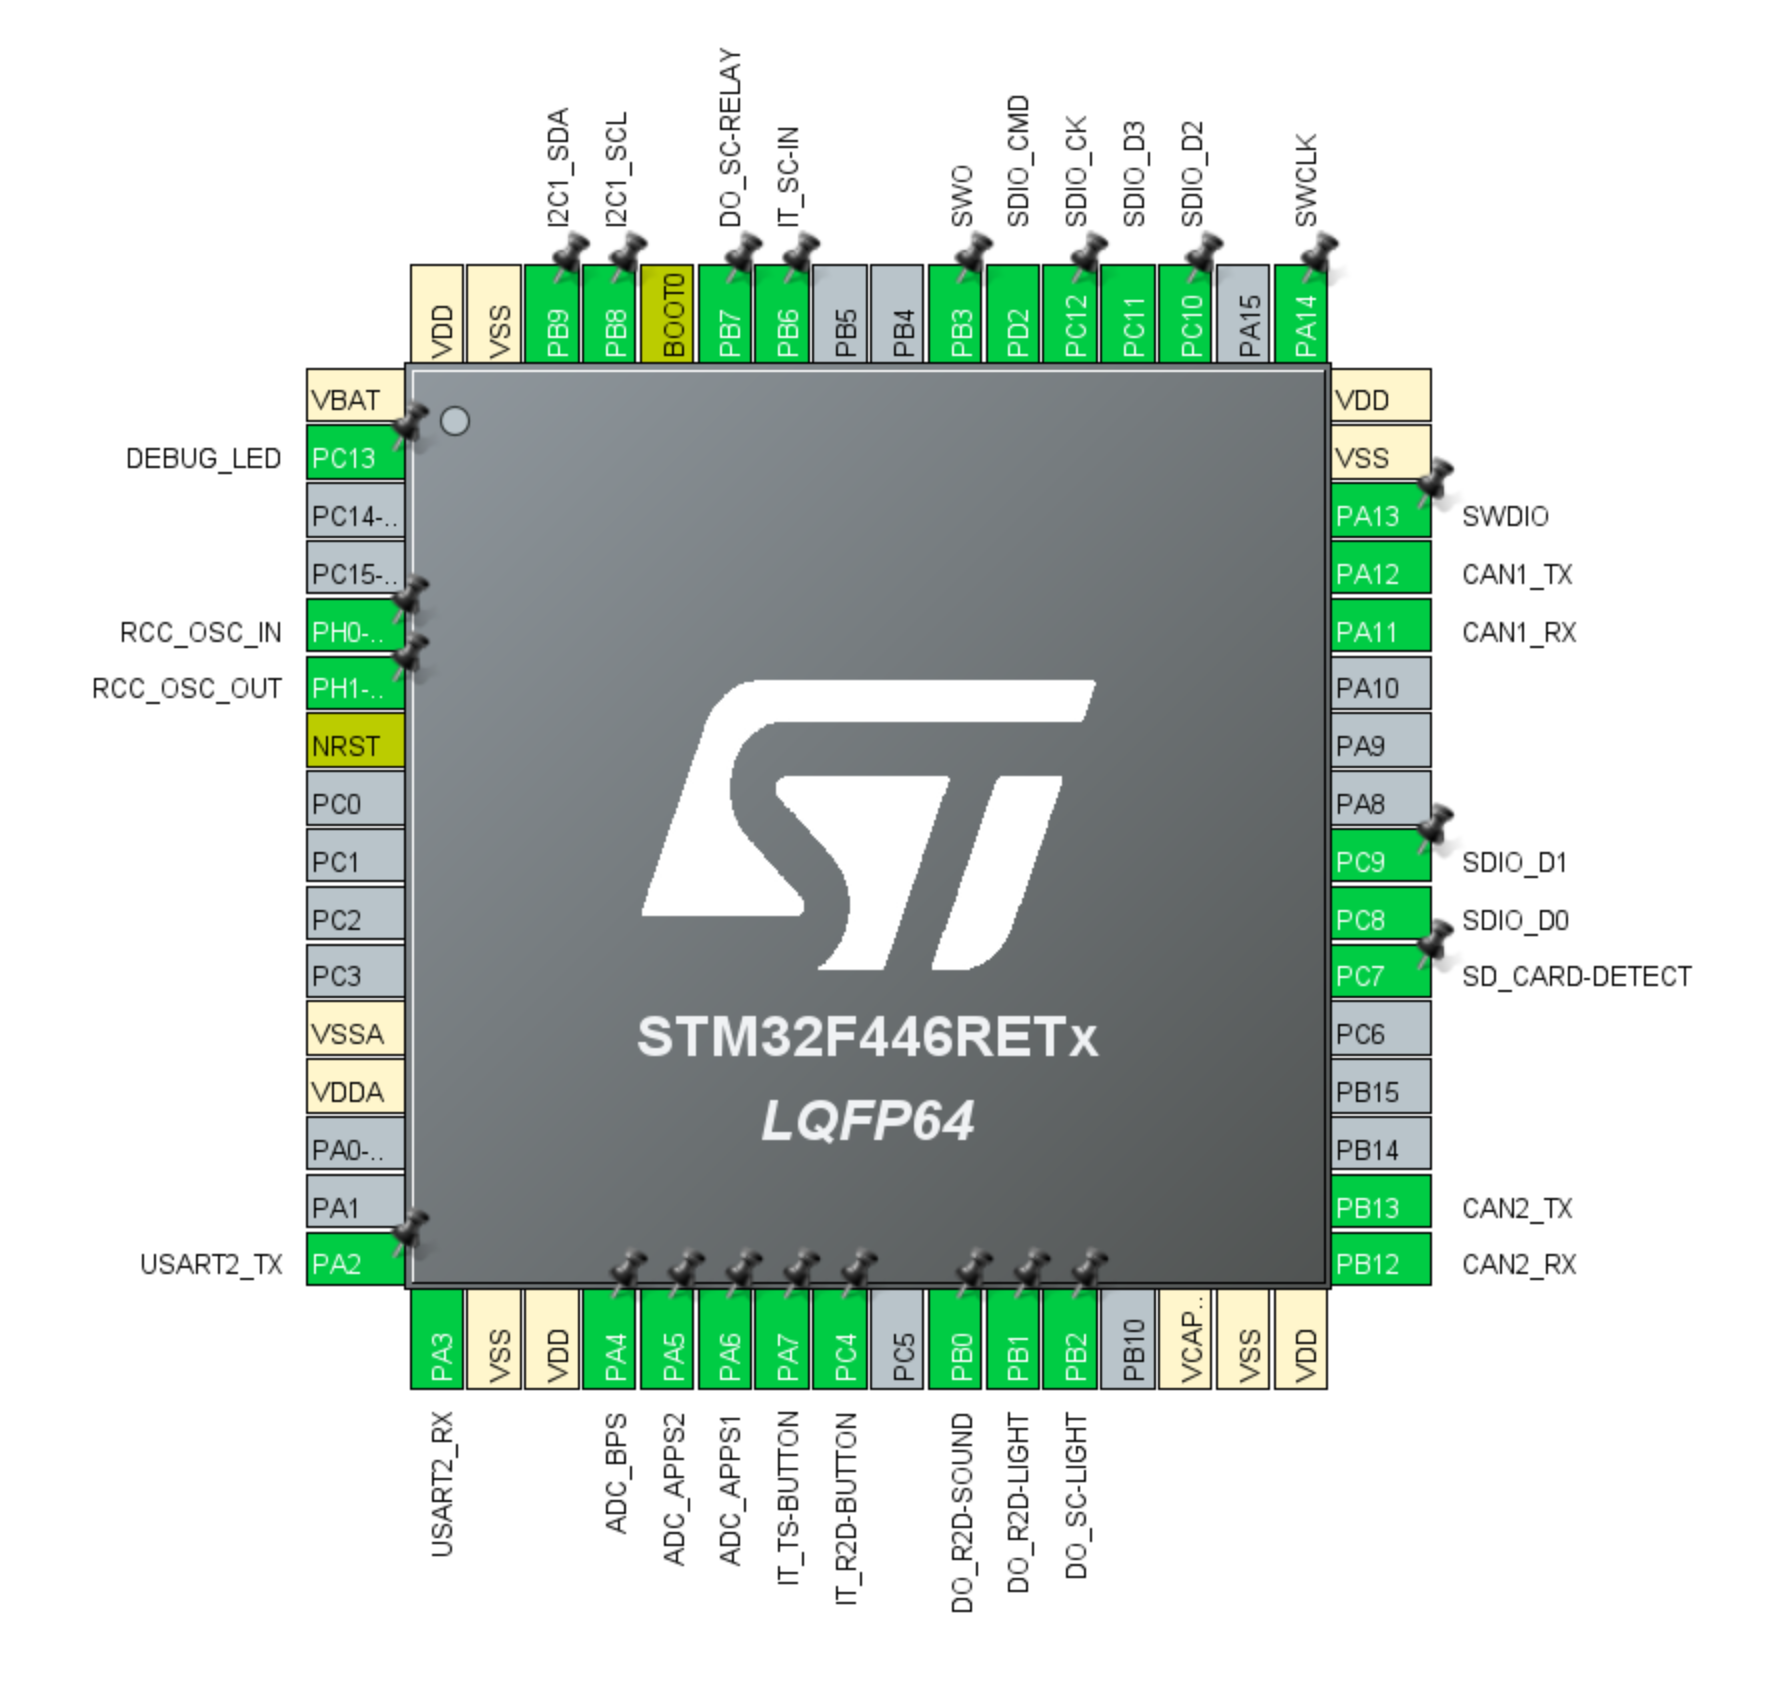
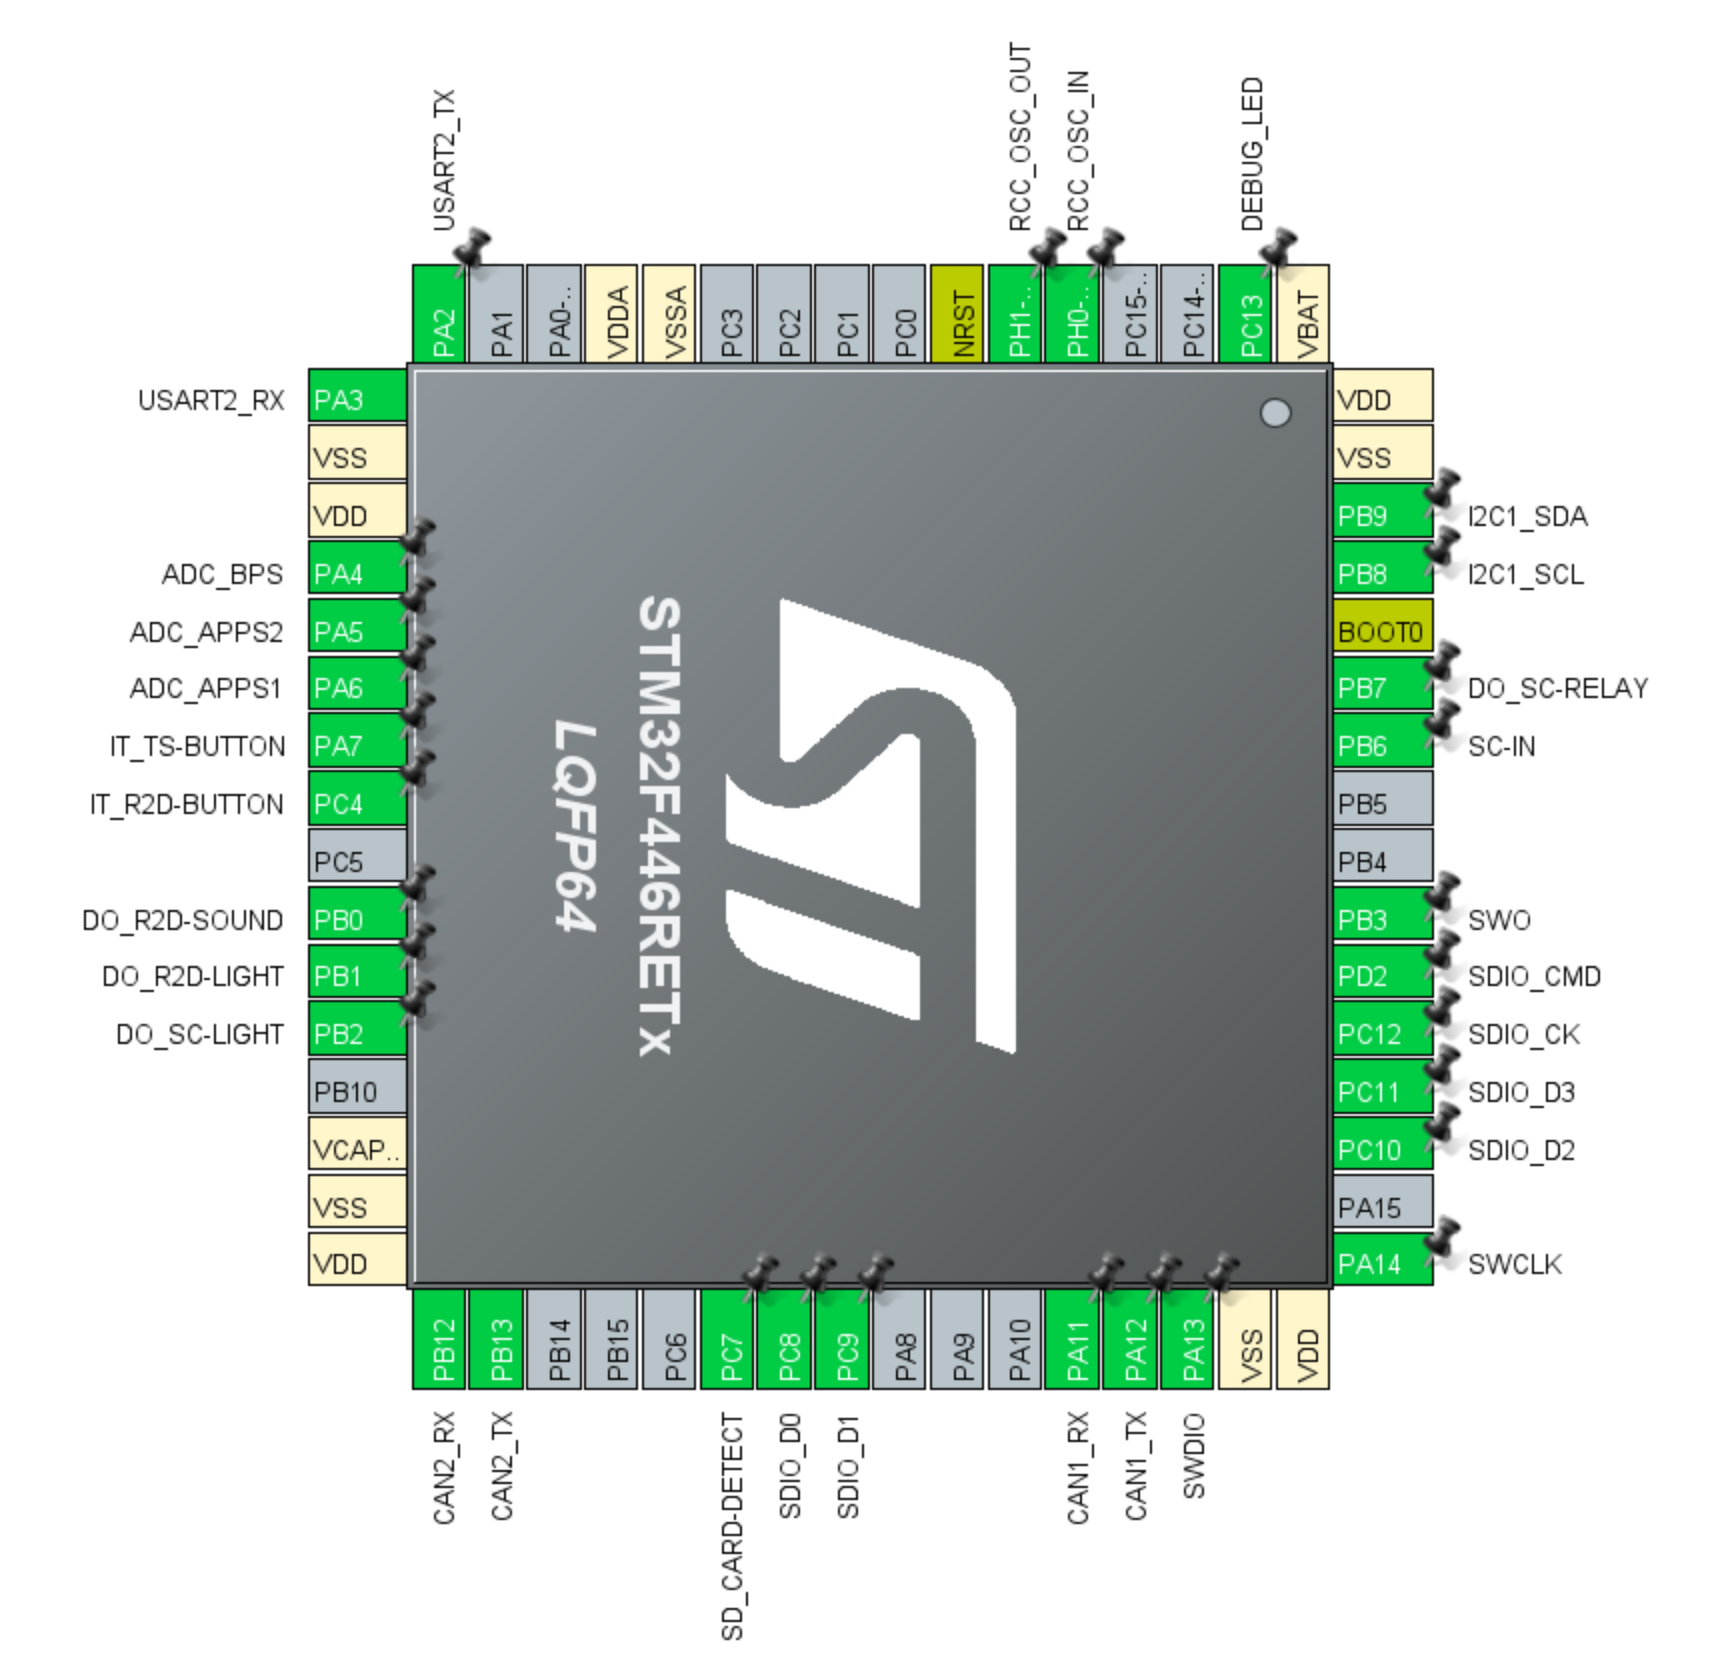
updated readme with new diagrams

Changed region(s): [[0.0308, 0.031, 0.9563, 0.9905], [0.3085, 0.3405, 0.617, 0.681]]

diff --git a/Core/Src/main.c b/Core/Src/main.c
@@ -985,11 +985,11 @@ void t_faultHandler_func(void *argument)
 
         if (HAL_GPIO_ReadPin(SC_IN_GPIO_Port, SC_IN_Pin))
         {
-            HAL_GPIO_WritePin(DO_SC_LIGHT_GPIO_Port, DO_SC_LIGHT_Pin, 1);
+            HAL_GPIO_WritePin(DO_SC_LIGHT_GPIO_Port, DO_SC_LIGHT_Pin, 0);
         }
         else
         {
-            HAL_GPIO_WritePin(DO_SC_LIGHT_GPIO_Port, DO_SC_LIGHT_Pin, 0);
+            HAL_GPIO_WritePin(DO_SC_LIGHT_GPIO_Port, DO_SC_LIGHT_Pin, 1);
             checkFaultCritOK = false;
         }
 

diff --git a/README.md b/README.md
@@ -2,9 +2,13 @@
 
 Device responsible of the TS activation logic and R2D mode
 
-![alt text](<docs/3D View.png>)
 
-_The PCB design is still under testing and may change in the future._ 
+![3D Render](<docs/3D View.png>)
+
+
+![Interfaces](<docs/interfaces.png>)
+
+
 
 
 ## Features
@@ -38,12 +42,12 @@ _The PCB design is still under testing and may change in the future._
 - **Transition:** Returns to inactive or active on error or driver command.
 
 
-## Software Design Notes
+## Program Structure
 
-- Using FreeRTOS with CMSIS V2 interface for easy multitasking and timers
-- 
+![tasks](docs/tasks.png)
 
 
+![states](docs/states.png)
 
 
 
